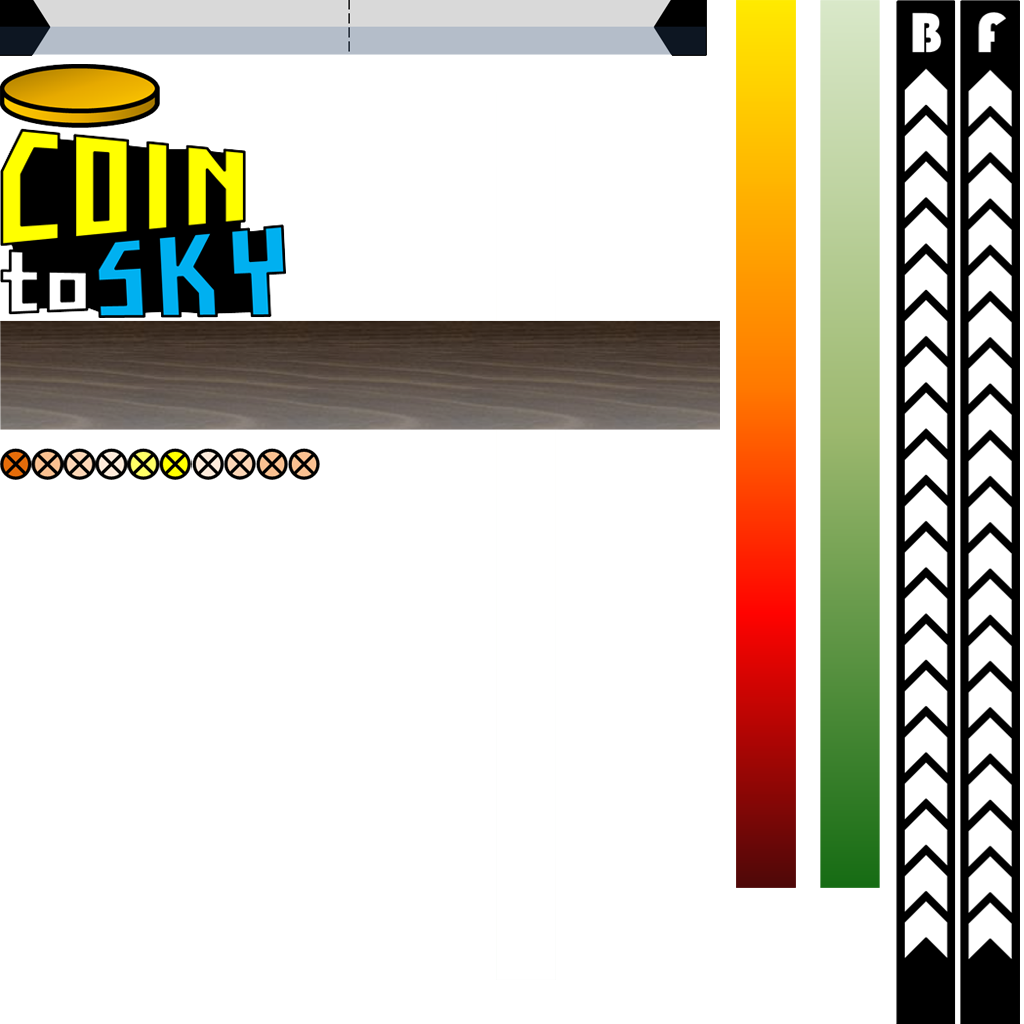
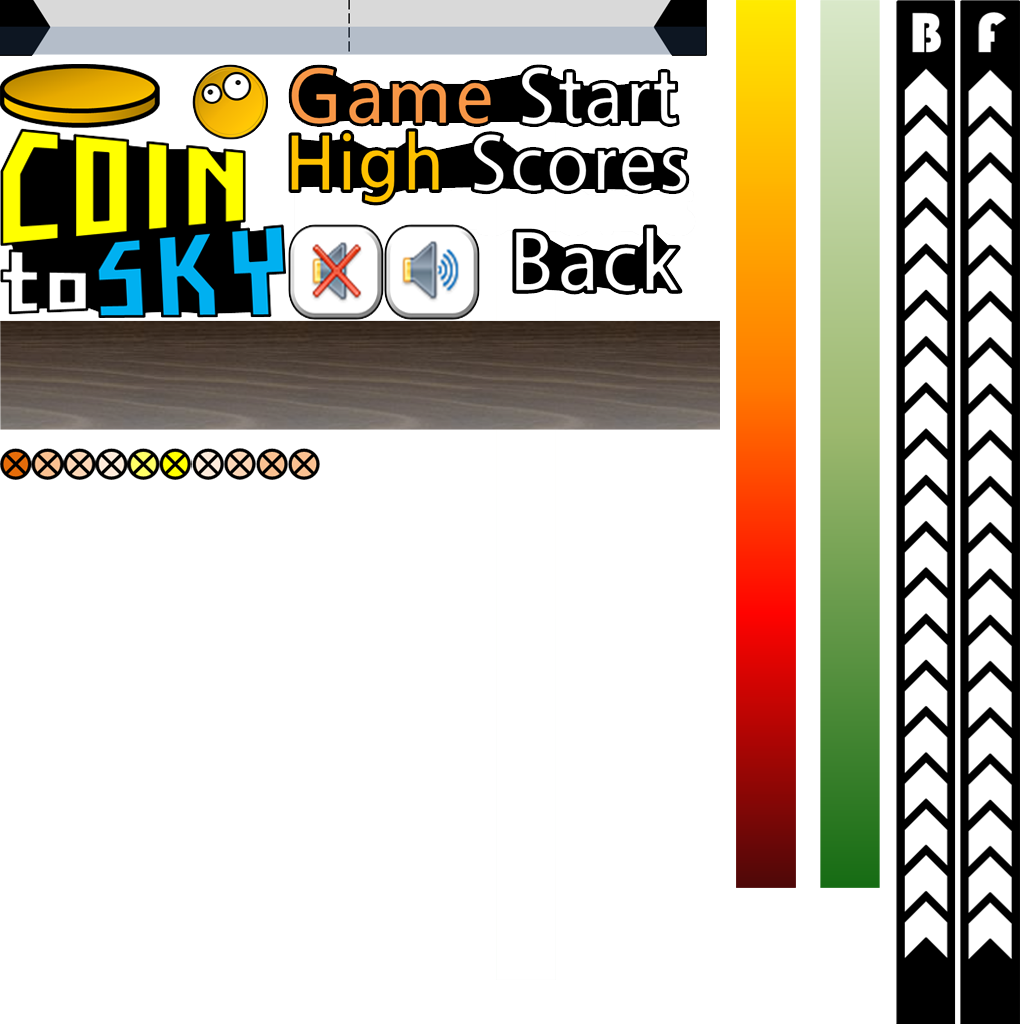
layout design.

Changed region(s): [[0.1875, 0.0625, 0.6875, 0.3125], [0.5, 0.2188, 0.6562, 0.3125]]

diff --git a/src/com/skyseed/androidgames/cointosky/MainMenuScreen.java b/src/com/skyseed/androidgames/cointosky/MainMenuScreen.java
@@ -19,17 +19,16 @@ public class MainMenuScreen extends GLScreen {
     Rectangle soundBounds;
     Rectangle playBounds;
     Rectangle highscoresBounds;
-    Rectangle helpBounds;
     Vector2 touchPoint;
 
     public MainMenuScreen(Game game) {
         super(game);
-        guiCam = new Camera2D(glGraphics, 320, 480);
+        guiCam = new Camera2D(glGraphics, 720, 1200);
         batcher = new SpriteBatcher(glGraphics, 100);
         soundBounds = new Rectangle(0, 0, 64, 64);
-        playBounds = new Rectangle(160 - 150, 200 + 18, 300, 36);
-        highscoresBounds = new Rectangle(160 - 150, 200 - 18, 300, 36);
-        helpBounds = new Rectangle(160 - 150, 200 - 18 - 36, 300, 36);
+        playBounds = new Rectangle(360 - 196, 500, 392, 64);
+        highscoresBounds = new Rectangle(360 - 201, 600, 402, 78);
+        //helpBounds = new Rectangle(160 - 150, 200 - 18 - 36, 300, 36);
         touchPoint = new Vector2();               
     }       
 
@@ -50,16 +49,19 @@ public class MainMenuScreen extends GLScreen {
                     game.setScreen(new GameScreen(game));
                     return;
                 }
+
                 if(OverlapTester.pointInRectangle(highscoresBounds, touchPoint)) {
                     Assets.playSound(Assets.clickSound);
                     //game.setScreen(new HighscoresScreen(game));
                     return;
                 }
+
                 if(OverlapTester.pointInRectangle(helpBounds, touchPoint)) {
                     Assets.playSound(Assets.clickSound);
                     //game.setScreen(new HelpScreen(game));
                     return;
                 }
+
                 if(OverlapTester.pointInRectangle(soundBounds, touchPoint)) {
                     Assets.playSound(Assets.clickSound);
                     Settings.soundEnabled = !Settings.soundEnabled;
@@ -81,7 +83,8 @@ public class MainMenuScreen extends GLScreen {
         gl.glEnable(GL10.GL_TEXTURE_2D);
         
         batcher.beginBatch(Assets.background);
-        batcher.drawSprite(160, 240, 320, 480, Assets.backgroundRegion);
+        batcher.drawSprite(360, 600, 720, 1200, Assets.backgroundRegion);
+        batcher.drawSprite(360, 900, 394, 286, Assets.city);
         batcher.endBatch();
         
         gl.glEnable(GL10.GL_BLEND);
@@ -89,9 +92,10 @@ public class MainMenuScreen extends GLScreen {
         
         batcher.beginBatch(Assets.items);                 
         
-        batcher.drawSprite(160, 480 - 10 - 71, 274, 142, Assets.logo);
-        //batcher.drawSprite(160, 200, 300, 110, Assets.mainMenu);
-        //batcher.drawSprite(32, 32, 64, 64, Settings.soundEnabled?Assets.soundOn:Assets.soundOff);
+        batcher.drawSprite(320, 256, 286, 190, Assets.logo);
+        batcher.drawSprite(320, 700 - 32, 392, 64, Assets.gameStartBtn);
+        batcher.drawSprite(320, 600 - 32, 392, 64, Assets.highScoreBtn);
+        batcher.drawSprite(32, 32, 64, 64, Settings.soundEnabled?Assets.soundOnBtn:Assets.soundOffBtn);
                 
         batcher.endBatch();
         

diff --git a/src/com/skyseed/androidgames/cointosky/GameScreen.java b/src/com/skyseed/androidgames/cointosky/GameScreen.java
@@ -39,7 +39,7 @@ public class GameScreen extends GLScreen {
     public GameScreen(Game game) {
         super(game);
         state = GAME_READY;
-        guiCam = new Camera2D(glGraphics, 480, 800);
+        guiCam = new Camera2D(glGraphics, 720, 1200);
         touchPoint = new Vector2();
         batcher = new SpriteBatcher(glGraphics, 1000);
         worldListener = new WorldListener() {
@@ -65,9 +65,9 @@ public class GameScreen extends GLScreen {
         };
         world = new World(worldListener);
         renderer = new WorldRenderer(glGraphics, batcher, world);
-        pauseBounds = new Rectangle(320- 64, 480- 64, 64, 64);
-        resumeBounds = new Rectangle(160 - 96, 240, 192, 36);
-        quitBounds = new Rectangle(160 - 96, 240 - 36, 192, 36);
+        // pauseBounds = new Rectangle(320- 64, 480- 64, 64, 64);
+        // resumeBounds = new Rectangle(160 - 96, 240, 192, 36);
+        // quitBounds = new Rectangle(160 - 96, 240 - 36, 192, 36);
         lastScore = 0;
         scoreString = "score: 0";
         fpsCounter = new FPSCounter();
@@ -114,14 +114,15 @@ public class GameScreen extends GLScreen {
 	        touchPoint.set(event.x, event.y);
 	        guiCam.touchToWorld(touchPoint);
 	        
-	        if(OverlapTester.pointInRectangle(pauseBounds, touchPoint)) {
+	        /*if(OverlapTester.pointInRectangle(pauseBounds, touchPoint)) {
 	            Assets.playSound(Assets.clickSound);
 	            state = GAME_PAUSED;
 	            return;
-	        }            
+                    } */           
 	    }
 	    
-	    world.update(deltaTime, game.getInput().getAccelX());
+	    world.update(deltaTime, .getInput().getAccelX());
+            
 	    if(world.score != lastScore) {
 	        lastScore = world.score;
 	        scoreString = "" + lastScore;
@@ -230,11 +231,11 @@ public class GameScreen extends GLScreen {
 	}
 	
 	private void presentRunning() {
-          batcher.drawSprite(240, 800-32, 353, 32, Assets.balanceBar);
-          batcher.drawSprite(64, 800-96, 353, 32, Assets.balanceBar);
-          batcher.drawSprite(240, 800-32, 353, 32, Assets.balanceBar);
-          batcher.drawSprite(240, 800-32, 353, 32, Assets.balanceBar);
-          batcher.drawSprite(240, 800-32, 353, 32, Assets.balanceBar);
+          batcher.drawSprite(320, 1200 - 32, 353, 32, Assets.balanceBar);
+          //batcher.drawSprite(64, 600, 300, , Assets.balanceBar);
+          //batcher.drawSprite(240, 800-32, 353, 32, Assets.balanceBar);
+          //batcher.drawSprite(240, 800-32, 353, 32, Assets.balanceBar);
+          //batcher.drawSprite(240, 800-32, 353, 32, Assets.balanceBar);
           //Assets.font.drawText(batcher, scoreString, 16, 480-20);
 	}
 	

diff --git a/src/com/skyseed/androidgames/cointosky/World.java b/src/com/skyseed/androidgames/cointosky/World.java
@@ -20,17 +20,24 @@ public class World {
 
   public static final float WORLD_WIDTH = 10;
   public static final float WORLD_HEIGHT = 15 * 20;
-  public static final int WORLD_STATE_RUNNING = 0;
-  public static final int WORLD_STATE_NEXT_LEVEL = 1;
+  public static final int WORLD_STATE_BALANCING = 0;
+  public static final int WORLD_STATE_DROP_COIN = 1;
   public static final int WORLD_STATE_GAME_OVER = 2;
+  public static final int BALANCE_MAX = 20;
   public static final Vector2 gravity = new Vector2(0, -12);
 
-  //public final CoinTower coinTower;
-  //public final Coin coin;
+  public final CoinTower coinTower;
+
+  public final int balance;
+  public final int dirBalance;
+  public final float energy;
+  public final float fever;
+  
+  public final Coin coin;
   public final WorldListener listener;
   public final Random rand;
 
-  public float heightSoFar;
+  //public float heightSoFar;
   public int score;
   public int state;
 
@@ -40,6 +47,16 @@ public class World {
     this.springs = new ArrayList<Spring>();
     this.squirrels = new ArrayList<Squirrel>();
     this.coins = new ArrayList<Coin>();*/
+
+    this.coinTower = new CoinTower();
+    this.coin = new Coin(320, 1200);
+    this.balance = 0;
+    this.dirBalance = 1;
+    this.energy = 100;
+    this.fever = 0;
+    
+
+    this.state = WORLD_STATE_DROP_COIN;
     this.listener = listener;
     rand = new Random();
     //generateLevel();
@@ -57,7 +74,26 @@ public class World {
     if (bob.state != Bob.BOB_STATE_HIT)
       checkCollisions();
       checkGameOver();*/
+    
+    
+    if (this.state == WORLD_STATE_DROP_COIN)
+      updateCoin();
+
+    else
+      updateBalanceBar(deltaTime);
+    
+    checkGameOver();
   }
+
+  public void updateBalanceBar(float deltaTime){
+    this.balance += dirBalance;
+  }
+
+  public void updateCoin(float deltaTime){
+    coin.update(deltaTime);
+  }
+
+  
   /*
   private void updateBob(float deltaTime, float accelX) {
     if (bob.state != Bob.BOB_STATE_HIT && bob.position.y <= 0.5f)

diff --git a/src/com/skyseed/androidgames/cointosky/Coin.java b/src/com/skyseed/androidgames/cointosky/Coin.java
@@ -1,19 +1,31 @@
 package com.skyseed.androidgames.cointosky;
 
-import com.skyseed.androidgames.framework.GameObject;
+import com.skyseed.androidgames.framework.DynamicGameObject;
 
-public class Coin extends GameObject {
-    public static final float COIN_WIDTH = 0.5f;
-    public static final float COIN_HEIGHT = 0.8f;
-    public static final int COIN_SCORE = 10;
-
-    float stateTime;
-    public Coin(float x, float y) {
-        super(x, y, COIN_WIDTH, COIN_HEIGHT);
-        stateTime = 0;
-    }
+public class Coin extends DynamicGameObject {
+  public static final float COIN_WIDTH = 0.5f;
+  public static final float COIN_HEIGHT = 0.8f;
+  public static final int COIN_SCORE = 10;
+  
+  public static final int COIN_NORMAL = 0;
+  public static final int COIN_COLLISION = 1;
+  public static final int COIN_DIE = 2;
+  
+  int state;
+  float stateTime;
+  
+  public Coin(float x, float y) {
+    super(x, y, COIN_WIDTH, COIN_HEIGHT);
+    stateTime = 0;
+    state = COIN_NORMAL;
+  }
     
-    public void update(float deltaTime) {
-        stateTime += deltaTime;
+  public void update(float deltaTime) {
+    if(state == COIN_NORMAL){
+      velocity.add(World.gravity.x * deltaTime, World.gravity.y * deltaTime);
+      position.add(velocity.x * deltaTime, velocity.y * deltaTime);
     }
+        
+    stateTime += deltaTime;
+  }
 }

diff --git a/src/com/skyseed/androidgames/cointosky/Assets.java b/src/com/skyseed/androidgames/cointosky/Assets.java
@@ -11,6 +11,8 @@ import com.skyseed.androidgames.framework.impl.GLGame;
 public class Assets {
   public static Texture background;
   public static TextureRegion backgroundRegion;
+  public static TextureRegion light;
+  public static TextureRegion city;
     
   public static Texture items;
   public static TextureRegion floor;
@@ -21,6 +23,12 @@ public class Assets {
   public static TextureRegion feverBar;
   public static TextureRegion energy;
   public static TextureRegion fever;
+  public static TextureRegion backBtn;
+  public static TextureRegion gameStartBtn;
+  public static TextureRegion highScoreBtn;
+  public static TextureRegion soundOnBtn;
+  public static TextureRegion soundOffBtn;
+  public static TextureRegion mascot;
   public static Animation balancePoint;
   
   /*public static TextureRegion mainMenu;
@@ -54,6 +62,8 @@ public class Assets {
   public static void load(GLGame game) {
     background = new Texture(game, "background.png");
     backgroundRegion = new TextureRegion(background, 0, 0, 480, 800);
+    light = new TextureRegion(background, 874, 0, 150, 636);
+    city = new TextureRegion(background, 360, 0, 394, 286);
         
     items = new Texture(game, "items.png");        
 

diff --git a/src/com/skyseed/androidgames/cointosky/WorldRenderer.java b/src/com/skyseed/androidgames/cointosky/WorldRenderer.java
@@ -9,8 +9,8 @@ import com.skyseed.androidgames.framework.gl.TextureRegion;
 import com.skyseed.androidgames.framework.impl.GLGraphics;
 
 public class WorldRenderer {
-    static final float FRUSTUM_WIDTH = 10;
-    static final float FRUSTUM_HEIGHT = 15;    
+    static final float FRUSTUM_WIDTH = 720;
+    static final float FRUSTUM_HEIGHT = 1200;    
     GLGraphics glGraphics;
     World world;
     Camera2D cam;
@@ -48,7 +48,16 @@ public class WorldRenderer {
         //batcher.endBatch();
         gl.glDisable(GL10.GL_BLEND);
     }
+  private void renderBalanceBar() {
+    int balanceBarWidth = world.balanceBar.width;
+    int balance = world.balance;
+    int balance_max = world.
+    bacher.drawSprite(320, 1200 - 64, balanceBarWidth, 64, Assets.balanceBar);
+
+    if(world.state == world.WORLD_STATE_BALANCING){
+      
     
+  }
   /*    private void renderBob() {
         TextureRegion keyFrame;
         switch(world.bob.state) {

diff --git a/src/com/skyseed/androidgames/cointosky/CoinToSkyGame.java b/src/com/skyseed/androidgames/cointosky/CoinToSkyGame.java
@@ -11,7 +11,7 @@ public class CoinToSkyGame extends GLGame {
     
     @Override
     public Screen getStartScreen() {
-        return new GameScreen(this);
+        return new MainMenuScreen(this);
     }
     
     @Override

diff --git a/src/com/skyseed/androidgames/cointosky/CoinTower.java b/src/com/skyseed/androidgames/cointosky/CoinTower.java
@@ -9,6 +9,7 @@ public class CoinTower {
   public int coinCount;
   public int towerBalance;
   public int towerHeight;
+  
   public List<Coin> coins = new ArrayList<Coin>();
     
   public CoinTower() {        
